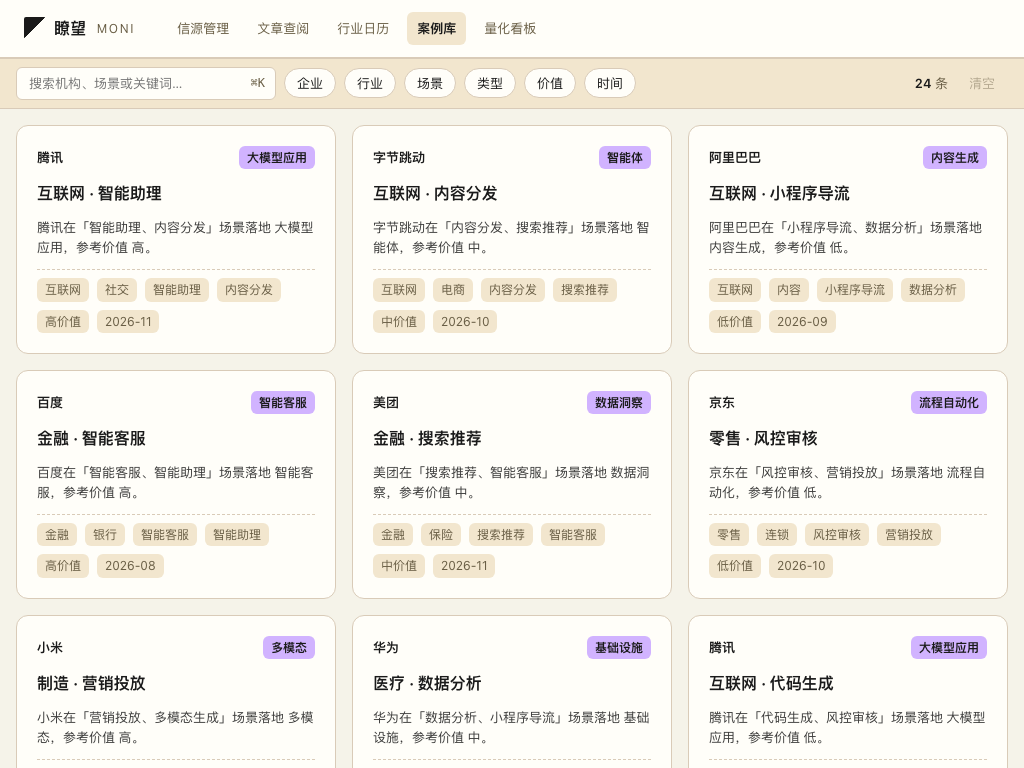
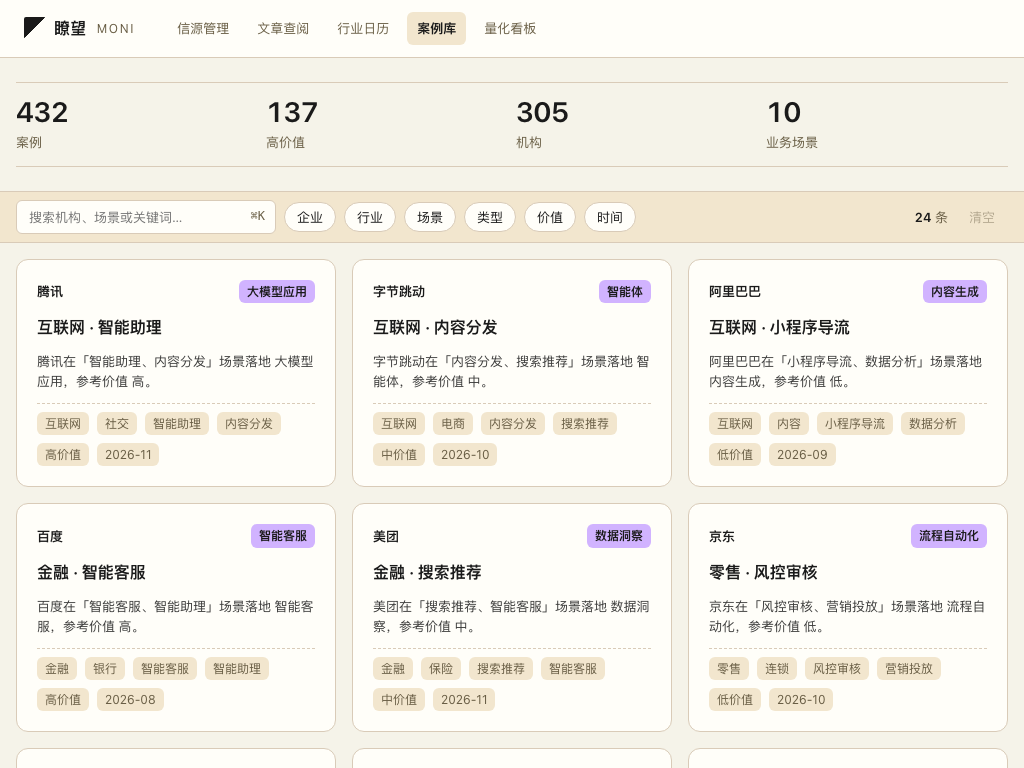
docs(cases): 筛选 demo 补回概览条，机构口径改为 305
- filter-mock 增加 A 区无框概览（432/137/305/10）
- 305 = 94 已归一企业 + 211 未归一主体去重并集
- 116 是企业词典总量，94 只是命中归一数，都不是覆盖数
- 重渲染 1440/1024 与展开态截图

diff --git a/docs/sprint-evidence/sprint-79/design/filter-mock.html b/docs/sprint-evidence/sprint-79/design/filter-mock.html
@@ -96,6 +96,11 @@ button{font-family:inherit; cursor:pointer}
 .fmore{grid-column:1/-1; font-size:var(--font-12); color:var(--muted-fg); padding:6px 2px}
 .fempty{grid-column:1/-1; font-size:var(--font-13); color:var(--muted-fg); padding:var(--space-2) 0}
 
+/* A 概览：无框 + 上下细线，与原型三档表面一致 */
+.kpis{width:calc(100% - 48px); max-width:1280px; margin:24px auto; padding:16px 0; display:grid; grid-template-columns:repeat(4,1fr); gap:var(--space-3); border-top:1px solid var(--border); border-bottom:1px solid var(--border)}
+.kpi .n{font-size:var(--font-28); font-weight:600; letter-spacing:-.02em; line-height:1.1; font-variant-numeric:tabular-nums}
+.kpi .u{font-size:var(--font-13); color:var(--muted-fg); margin-top:4px}
+
 /* ═══ 列表（沿用原型 .case-grid / .case-card 语言） ═══ */
 .wrap{max-width:1280px; margin:0 auto; padding:var(--space-6)}
 .case-grid{display:grid; grid-template-columns:repeat(auto-fill,minmax(340px,1fr)); gap:var(--space-4)}
@@ -114,6 +119,7 @@ button{font-family:inherit; cursor:pointer}
 
 /* ═══ 分档：1024 ═══ */
 @media (max-width:1100px){
+  .kpis{width:calc(100% - 32px); gap:var(--space-2); padding:14px 0}
   .filters__row{padding:8px 16px; gap:var(--space-2)}
   .fchips{flex:1; min-width:0}
   .search{flex:0 1 260px}
@@ -122,6 +128,9 @@ button{font-family:inherit; cursor:pointer}
   .ftokens{padding:0 16px var(--space-3)}
   .wrap{padding:var(--space-4)}
   .case-grid{grid-template-columns:repeat(auto-fill,minmax(300px,1fr))}
+}
+@media (max-width:800px){
+  .kpis{grid-template-columns:repeat(2,1fr)}
 }
 @media (prefers-reduced-motion:reduce){*{transition:none !important; animation:none !important}}
 </style>
@@ -135,6 +144,13 @@ button{font-family:inherit; cursor:pointer}
     <a href="#" class="active">案例库</a><a href="#">量化看板</a>
   </div>
 </nav>
+
+<div class="kpis" aria-label="案例库概览">
+  <div class="kpi"><div class="n">432</div><div class="u">案例</div></div>
+  <div class="kpi"><div class="n">137</div><div class="u">高价值</div></div>
+  <div class="kpi"><div class="n">305</div><div class="u">机构</div></div>
+  <div class="kpi"><div class="n">10</div><div class="u">业务场景</div></div>
+</div>
 
 <div class="filters" id="filters">
   <div class="filters__row">

diff --git a/docs/sprint-evidence/sprint-79/design/prototype-v2.html b/docs/sprint-evidence/sprint-79/design/prototype-v2.html
@@ -249,7 +249,7 @@ button{font-family:inherit; cursor:pointer}
     <div class="stats-strip">
       <div class="stat"><div class="n">432</div><div class="u">案例</div></div>
       <div class="stat"><div class="n">137</div><div class="u">高价值</div></div>
-      <div class="stat"><div class="n">94</div><div class="u">覆盖企业</div></div>
+      <div class="stat"><div class="n">305</div><div class="u">机构</div></div>
       <div class="stat"><div class="n">10</div><div class="u">业务场景</div></div>
     </div>
 
